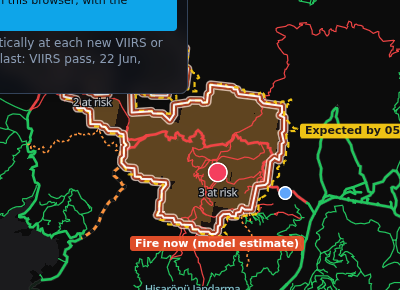
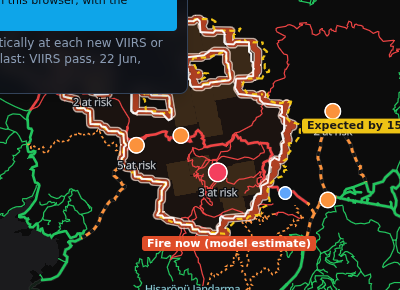
Simple: the newest pass's pixels in one flat colour close to the burned ground
VIIRS pixels of one pass overlap or leave hairline gaps (their centres are not exactly 375 m apart), so
even a single pass at 30 % stacked into darker squares with seams (22 Jun 14:16). They are now drawn
opaque in the fire colour at about 14 % over the burned ground, with an outline of the same colour:
one even tone, no squares or seams. Test: the pixel centres on screen read one tone.

Changed region(s): [[0.18, 0.031, 1.0, 1.0]]

diff --git a/src/components/MapView.tsx b/src/components/MapView.tsx
@@ -63,6 +63,13 @@ export const ACTIVE_FIRE_H = 6;
 export const SIMPLE_FIRE_H = 3;
 export const ACTIVE_FIRE_COLOUR = '#fde047';
 export const SIMPLE_FIRE_COLOUR = '#ffb547';
+/**
+ * Simple: the newest pass's pixels in one flat colour, SIMPLE_FIRE_COLOUR at 14 % over the dark burned ground, drawn
+ * opaque with an outline of the same colour. VIIRS pixels of one pass overlap or leave hairline gaps (their centres
+ * are not exactly 375 m apart), so a see-through fill stacked into darker squares with seams; opaque, overlaps
+ * cannot show, and the outline closes the gaps.
+ */
+export const SIMPLE_PIXEL_COLOUR = '#3a2918';
 export const OLD_FIRE_COLOUR = '#4b5563';
 
 /** Line width in pixels of `metres` on the ground at this map latitude (about 36.85° N), for any zoom. */
@@ -306,9 +313,10 @@ export function MapView({ data, now, layers, selectedId, nearIds, stages, routes
         : ['all', obs('flame_front'), upTo]);
       map.setFilter('burned-area', ['all', obs('burned_area'), upTo]);
       // Active fire: one bright colour in Simple, the sensor colours in Detailed.
-      map.setPaintProperty('hotspots', 'fill-color', simple ? SIMPLE_FIRE_COLOUR : INSTRUMENT_COLOUR);
-      map.setPaintProperty('hotspots', 'fill-opacity', ['match', ['get', 'instrument'], 'VIIRS', simple ? 0.3 : 0.4, simple ? 0.1 : 0.15]);
-      map.setPaintProperty('hotspots', 'fill-outline-color', simple ? 'rgba(0,0,0,0)' : INSTRUMENT_COLOUR);
+      map.setPaintProperty('hotspots', 'fill-color', simple ? SIMPLE_PIXEL_COLOUR : INSTRUMENT_COLOUR);
+      map.setPaintProperty('hotspots', 'fill-opacity', simple ? 1 : ['match', ['get', 'instrument'], 'VIIRS', 0.4, 0.15]);
+
+      map.setPaintProperty('hotspots', 'fill-outline-color', simple ? SIMPLE_PIXEL_COLOUR : INSTRUMENT_COLOUR);
       // Older detections (burned): dark grey, Detailed only.
       map.setFilter('hotspots-old', ['all', obs('hotspots'), upTo, ['!', recent]]);
       map.setPaintProperty('flame-front', 'fill-color', simple ? SIMPLE_FIRE_COLOUR : ['case', recent, ACTIVE_FIRE_COLOUR, OLD_FIRE_COLOUR]);
@@ -1001,7 +1009,7 @@ function Legend({ mode, nearby, nowcast, timeZone }: { mode: MapMode; nearby: bo
           {!simple && row(<LineKey colour={ZONE_COLOUR.h2} />, 'Other horizons (+6 h dotted)')}
           <div className="pt-0.5" />
           {!simple && row(<LineKey colour={INITIAL_FORECAST_COLOUR} />, 'Initial forecast (at ignition)')}
-          {simple ? row(<AreaKey fill={SIMPLE_FIRE_COLOUR} opacity={0.35} />, `Fire seen by the latest VIIRS pass (last ${SIMPLE_FIRE_H} h)`)
+          {simple ? row(<AreaKey fill={SIMPLE_PIXEL_COLOUR} opacity={1} />, `Fire seen by the latest VIIRS pass (last ${SIMPLE_FIRE_H} h)`)
             : <>
               {row(<AreaKey fill="#ef4444" opacity={0.45} />, `VIIRS 375 m (last ${ACTIVE_FIRE_H} h)`)}
               {row(<AreaKey fill="#a855f7" opacity={0.3} />, 'MODIS 1 km')}

diff --git a/README.md b/README.md
@@ -59,10 +59,11 @@ The switch in the header changes how much the map shows (add `?mode=detailed` to
   - **Forecast**: one line at a time, dashed yellow, tagged "Expected by 04:55 (+1 h)". The **Look ahead** switch
     on the map picks it: Now (none) · +30 min · +1 h · +2 h · +3 h (default +1 h; Detailed adds +6 h and draws the
     other horizons faintly). Parts under 0.3 km² are left out of this line too.
-  - Satellite detections: only the pixels of the **newest VIIRS pass of the last 3 hours**, faint (30 %) and
-    without edges; older passes are not drawn (the burned ground covers them, and the pixels of several passes over
-    the same ground stacked into dark squares), nor the large 1 km MODIS / SLSTR squares.
-    ![Simple, 22 Jun 04:05 with three passes in the last 3 h: before (stacked) and after (newest pass only)](docs/f_simple_pixels_before.png) ![after](docs/f_simple_pixels_after.png)
+  - Satellite detections: only the pixels of the **newest VIIRS pass of the last 3 hours**, in one flat colour close
+    to the burned ground (the fire colour at about 14 % over it), drawn opaque so that overlapping pixels never stack
+    into darker squares or seams; older passes are not drawn (the burned ground covers them), nor the large 1 km
+    MODIS / SLSTR squares.
+    ![Simple, 22 Jun 14:16: before (stacked squares) and after (one flat colour)](docs/f_simple_pixels_before.png) ![after](docs/f_simple_pixels_after.png)
   - Callers have a thin white edge and a soft dark shadow, so they stay readable on the fire.
   - Closed roads (solid red: seen by satellite; orange dashed: forecast closure), callers, crews and their routes.
 - **Detailed**: adds the satellite sensors in their own colours (VIIRS, MODIS, SLSTR, Sentinel-2 flame front and
